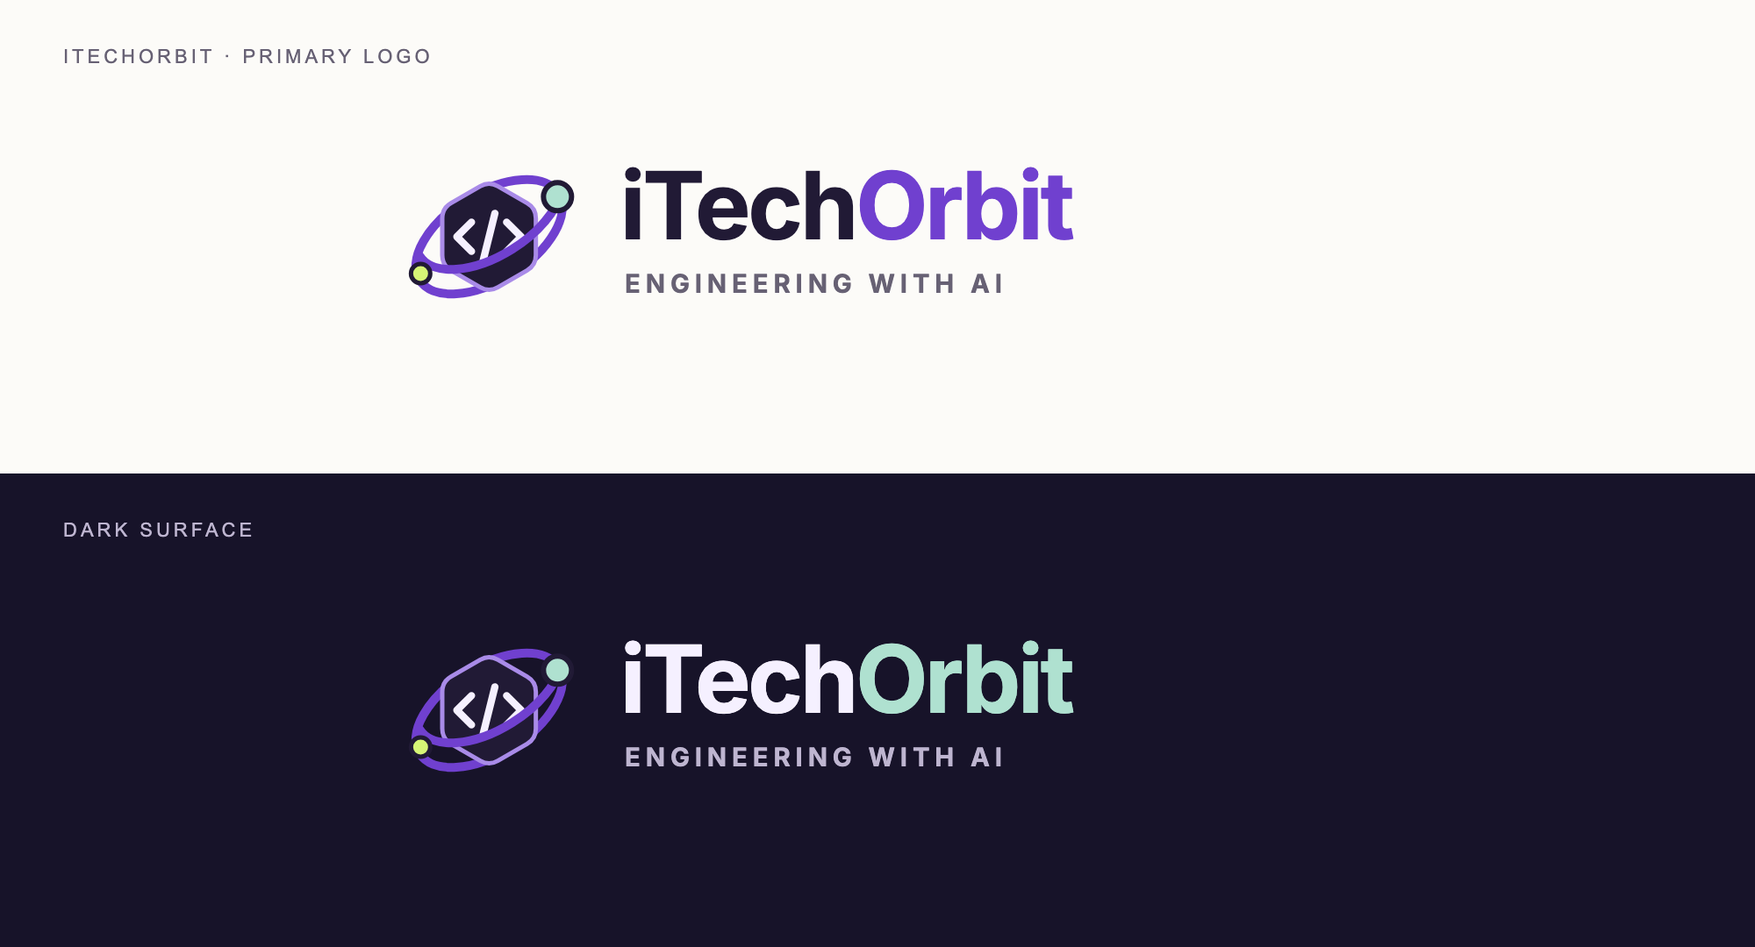
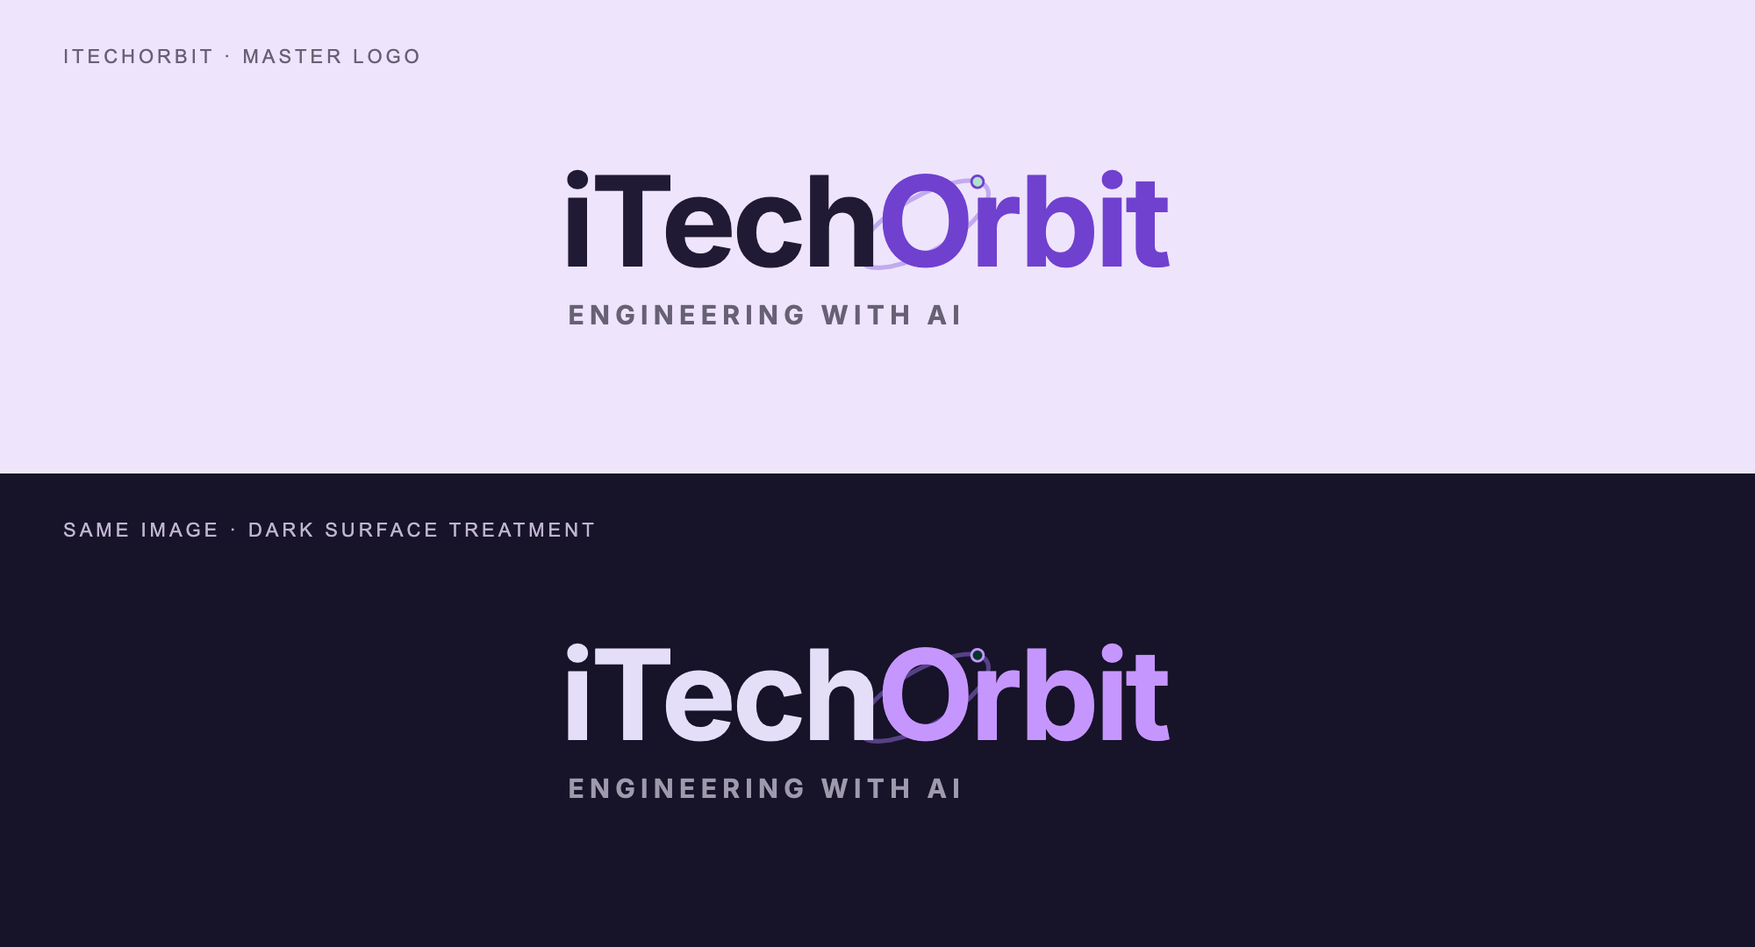
Unify branding with integrated orbital wordmark and Engineering with AI tagline

diff --git a/resources/js/pages/Auth.tsx b/resources/js/pages/Auth.tsx
@@ -1,4 +1,4 @@
-import { BrandSymbol } from '@/components/BrandSymbol';
+import { BrandLogo } from '@/components/BrandLogo';
 import { Head, Link, router, useForm, usePage } from '@inertiajs/react';
 import { ArrowRight, ShieldCheck } from 'lucide-react';
 import { Button } from '@/components/ui/button';
@@ -10,5 +10,5 @@ export default function Auth({ mode, token = '', email = '', googleEnabled = fal
   const titles: Record<Mode, string> = { login: 'Welcome back.', register: 'Create your account.', forgot: 'Reset your password.', reset: 'Choose a new password.', confirm: 'Confirm your password.', verify: 'Check your email.' };
   const paths: Record<Mode, string> = { login: '/login', register: '/register', forgot: '/password/email', reset: '/password/reset', confirm: '/password/confirm', verify: '/email/resend' };
   const fields = [...(mode === 'register' ? ['name'] : []), ...(['login', 'register', 'forgot', 'reset'].includes(mode) ? ['email'] : []), ...(['login', 'register', 'reset', 'confirm'].includes(mode) ? ['password'] : []), ...(['register', 'reset'].includes(mode) ? ['password_confirmation'] : [])] as ('name' | 'email' | 'password' | 'password_confirmation')[];
-  return <div className="min-h-screen bg-slate-50"><Head title={`${titles[mode]} | iTechOrbit`}><meta name="robots" content="noindex,nofollow" /></Head><div className="shell py-8"><Link href="/" className="brand"><BrandSymbol />iTechOrbit</Link></div><main className="mx-auto max-w-md px-6 pb-20 pt-10"><div className="rounded-2xl border border-slate-200 bg-white p-8"><ShieldCheck size={28} className="text-blue-600" /><h1 className="mt-6 text-3xl font-semibold tracking-tight">{titles[mode]}</h1><p className="mt-3 text-sm leading-7 text-slate-600">{mode === 'verify' ? 'Use the verification link we sent to your email address to continue.' : mode === 'forgot' ? 'We’ll send a secure password reset link to your email address.' : 'Your iTechOrbit engineering workspace.'}</p>{flash.status && <p role="status" className="mt-5 rounded-lg bg-blue-50 p-4 text-sm text-blue-800">{flash.status}</p>}<form className="mt-7 grid gap-5" onSubmit={e => { e.preventDefault(); form.post(paths[mode], { onFinish: () => form.reset('password', 'password_confirmation') }); }}>{fields.map(field => <div key={field}><label htmlFor={field} className="form-label">{field === 'password_confirmation' ? 'Confirm password' : field === 'name' ? 'Full name' : field === 'email' ? 'Email address' : 'Password'}</label><Input id={field} type={field.startsWith('password') ? 'password' : field === 'email' ? 'email' : 'text'} required autoComplete={field === 'email' ? 'email' : field === 'name' ? 'name' : mode === 'login' || mode === 'confirm' ? 'current-password' : 'new-password'} value={form.data[field]} onChange={e => form.setData(field, e.target.value)} aria-invalid={!!form.errors[field]} aria-describedby={form.errors[field] ? `${field}-error` : undefined} />{form.errors[field] && <p id={`${field}-error`} className="form-error" role="alert">{form.errors[field]}</p>}</div>)}{mode === 'login' && <div className="flex items-center justify-between text-xs"><label className="flex items-center gap-2"><input type="checkbox" checked={form.data.remember} onChange={e => form.setData('remember', e.target.checked)} className="accent-blue-600" />Remember me</label><Link href="/password/reset" className="text-blue-700">Forgot password?</Link></div>}<Button disabled={form.processing} className="mt-1 w-full">{form.processing ? 'Please wait…' : mode === 'verify' ? 'Resend verification email' : mode === 'forgot' ? 'Send reset link' : mode === 'register' ? 'Create account' : mode === 'login' ? 'Sign in' : 'Continue'}<ArrowRight size={16} /></Button></form>{mode === 'login' && googleEnabled && <Button asChild variant="outline" className="mt-4 w-full"><a href="/login/google">Continue with Google</a></Button>}{mode === 'verify' && <Button variant="ghost" className="mt-3 w-full" onClick={() => router.post('/logout')}>Sign out</Button>}{mode === 'login' && <p className="mt-6 text-center text-xs text-slate-500">New here? <Link href="/register" className="font-medium text-blue-700">Create an account</Link></p>}{['register', 'forgot', 'reset'].includes(mode) && <Link href="/login" className="mt-6 block text-center text-xs font-medium text-blue-700">Back to sign in</Link>}</div><Link href="/" className="mt-7 block text-center text-xs text-slate-500">Back to iTechOrbit</Link></main></div>;
+  return <div className="min-h-screen bg-slate-50"><Head title={`${titles[mode]} | iTechOrbit`}><meta name="robots" content="noindex,nofollow" /></Head><div className="shell py-8"><Link href="/" className="brand"><BrandLogo /></Link></div><main className="mx-auto max-w-md px-6 pb-20 pt-10"><div className="rounded-2xl border border-slate-200 bg-white p-8"><ShieldCheck size={28} className="text-blue-600" /><h1 className="mt-6 text-3xl font-semibold tracking-tight">{titles[mode]}</h1><p className="mt-3 text-sm leading-7 text-slate-600">{mode === 'verify' ? 'Use the verification link we sent to your email address to continue.' : mode === 'forgot' ? 'We’ll send a secure password reset link to your email address.' : 'Your iTechOrbit engineering workspace.'}</p>{flash.status && <p role="status" className="mt-5 rounded-lg bg-blue-50 p-4 text-sm text-blue-800">{flash.status}</p>}<form className="mt-7 grid gap-5" onSubmit={e => { e.preventDefault(); form.post(paths[mode], { onFinish: () => form.reset('password', 'password_confirmation') }); }}>{fields.map(field => <div key={field}><label htmlFor={field} className="form-label">{field === 'password_confirmation' ? 'Confirm password' : field === 'name' ? 'Full name' : field === 'email' ? 'Email address' : 'Password'}</label><Input id={field} type={field.startsWith('password') ? 'password' : field === 'email' ? 'email' : 'text'} required autoComplete={field === 'email' ? 'email' : field === 'name' ? 'name' : mode === 'login' || mode === 'confirm' ? 'current-password' : 'new-password'} value={form.data[field]} onChange={e => form.setData(field, e.target.value)} aria-invalid={!!form.errors[field]} aria-describedby={form.errors[field] ? `${field}-error` : undefined} />{form.errors[field] && <p id={`${field}-error`} className="form-error" role="alert">{form.errors[field]}</p>}</div>)}{mode === 'login' && <div className="flex items-center justify-between text-xs"><label className="flex items-center gap-2"><input type="checkbox" checked={form.data.remember} onChange={e => form.setData('remember', e.target.checked)} className="accent-blue-600" />Remember me</label><Link href="/password/reset" className="text-blue-700">Forgot password?</Link></div>}<Button disabled={form.processing} className="mt-1 w-full">{form.processing ? 'Please wait…' : mode === 'verify' ? 'Resend verification email' : mode === 'forgot' ? 'Send reset link' : mode === 'register' ? 'Create account' : mode === 'login' ? 'Sign in' : 'Continue'}<ArrowRight size={16} /></Button></form>{mode === 'login' && googleEnabled && <Button asChild variant="outline" className="mt-4 w-full"><a href="/login/google">Continue with Google</a></Button>}{mode === 'verify' && <Button variant="ghost" className="mt-3 w-full" onClick={() => router.post('/logout')}>Sign out</Button>}{mode === 'login' && <p className="mt-6 text-center text-xs text-slate-500">New here? <Link href="/register" className="font-medium text-blue-700">Create an account</Link></p>}{['register', 'forgot', 'reset'].includes(mode) && <Link href="/login" className="mt-6 block text-center text-xs font-medium text-blue-700">Back to sign in</Link>}</div><Link href="/" className="mt-7 block text-center text-xs text-slate-500">Back to iTechOrbit</Link></main></div>;
 }

diff --git a/resources/js/layouts/AdminLayout.tsx b/resources/js/layouts/AdminLayout.tsx
@@ -1,4 +1,4 @@
-import { BrandSymbol } from '@/components/BrandSymbol';
+import { BrandLogo } from '@/components/BrandLogo';
 import { Head, Link, router, usePage } from '@inertiajs/react';
 import { ArrowUpRight, LayoutDashboard, LogOut, Menu, X } from 'lucide-react';
 import { useState, type ReactNode } from 'react';
@@ -7,5 +7,5 @@ import type { Shared } from '@/lib/types';
 export type Navigation = { label: string; url: string }[];
 export default function AdminLayout({ children, title, navigation }: { children: ReactNode; title: string; navigation: Navigation }) {
   const { auth } = usePage<Shared>().props; const { url } = usePage(); const [open, setOpen] = useState(false);
-  return <div className="min-h-screen bg-slate-50"><Head title={`${title} | iTechOrbit workspace`}><meta name="robots" content="noindex,nofollow" /></Head><a className="skip-link" href="#main">Skip to content</a><aside className={`${open ? 'flex' : 'hidden'} fixed inset-y-0 left-0 z-40 w-64 flex-col border-r border-slate-200 bg-white lg:flex`}><div className="flex h-20 shrink-0 items-center justify-between border-b border-slate-200 px-6"><Link href="/home" className="brand"><BrandSymbol />iTechOrbit</Link><button className="lg:hidden" aria-label="Close workspace navigation" onClick={() => setOpen(false)}><X size={18} /></button></div><nav aria-label="Workspace navigation" className="flex-1 overflow-y-auto p-4"><Link href="/home" className={`mb-3 flex items-center gap-3 rounded-lg p-3 text-sm font-semibold ${url === '/home' ? 'bg-blue-50 text-blue-700' : 'text-slate-600'}`}><LayoutDashboard size={17} />Overview</Link><p className="mb-3 px-3 text-[10px] font-semibold uppercase tracking-widest text-slate-400">Manage your workspace</p>{navigation.map(item => <Link key={item.url} href={item.url} onClick={() => setOpen(false)} className={`mb-1 block rounded-lg px-3 py-2.5 text-sm ${url.split('?')[0].split('/')[1] === item.url.slice(1) ? 'bg-blue-50 font-semibold text-blue-700' : 'text-slate-600 hover:bg-slate-50'}`} aria-current={url.split('/')[1] === item.url.slice(1) ? 'page' : undefined}>{item.label}</Link>)}<Link href="/permissions" className="mt-3 block rounded-lg px-3 py-2.5 text-sm text-slate-600">Roles & permissions</Link></nav><div className="border-t border-slate-200 p-5"><Link href="/" className="flex items-center gap-2 text-xs font-medium text-slate-600">Visit public website <ArrowUpRight size={14} /></Link></div></aside><div className="lg:pl-64"><header className="flex min-h-20 items-center justify-between gap-5 border-b border-slate-200 bg-white px-6 md:px-10"><div className="flex items-center gap-3"><Button variant="ghost" size="icon" className="lg:hidden" aria-label="Open workspace navigation" aria-expanded={open} onClick={() => setOpen(!open)}><Menu size={20} /></Button><p className="text-xs font-medium text-slate-500">iTechOrbit / Workspace</p></div><div className="flex items-center gap-5"><span className="hidden text-sm text-slate-600 sm:block">{auth.user?.name}</span><Button variant="ghost" size="sm" onClick={() => router.post('/logout')}><LogOut size={16} />Sign out</Button></div></header><main id="main" className="mx-auto max-w-7xl p-6 md:p-10">{children}</main></div></div>;
+  return <div className="min-h-screen bg-slate-50"><Head title={`${title} | iTechOrbit workspace`}><meta name="robots" content="noindex,nofollow" /></Head><a className="skip-link" href="#main">Skip to content</a><aside className={`${open ? 'flex' : 'hidden'} fixed inset-y-0 left-0 z-40 w-64 flex-col border-r border-slate-200 bg-white lg:flex`}><div className="flex h-20 shrink-0 items-center justify-between border-b border-slate-200 px-6"><Link href="/home" className="brand"><BrandLogo /></Link><button className="lg:hidden" aria-label="Close workspace navigation" onClick={() => setOpen(false)}><X size={18} /></button></div><nav aria-label="Workspace navigation" className="flex-1 overflow-y-auto p-4"><Link href="/home" className={`mb-3 flex items-center gap-3 rounded-lg p-3 text-sm font-semibold ${url === '/home' ? 'bg-blue-50 text-blue-700' : 'text-slate-600'}`}><LayoutDashboard size={17} />Overview</Link><p className="mb-3 px-3 text-[10px] font-semibold uppercase tracking-widest text-slate-400">Manage your workspace</p>{navigation.map(item => <Link key={item.url} href={item.url} onClick={() => setOpen(false)} className={`mb-1 block rounded-lg px-3 py-2.5 text-sm ${url.split('?')[0].split('/')[1] === item.url.slice(1) ? 'bg-blue-50 font-semibold text-blue-700' : 'text-slate-600 hover:bg-slate-50'}`} aria-current={url.split('/')[1] === item.url.slice(1) ? 'page' : undefined}>{item.label}</Link>)}<Link href="/permissions" className="mt-3 block rounded-lg px-3 py-2.5 text-sm text-slate-600">Roles & permissions</Link></nav><div className="border-t border-slate-200 p-5"><Link href="/" className="flex items-center gap-2 text-xs font-medium text-slate-600">Visit public website <ArrowUpRight size={14} /></Link></div></aside><div className="lg:pl-64"><header className="flex min-h-20 items-center justify-between gap-5 border-b border-slate-200 bg-white px-6 md:px-10"><div className="flex items-center gap-3"><Button variant="ghost" size="icon" className="lg:hidden" aria-label="Open workspace navigation" aria-expanded={open} onClick={() => setOpen(!open)}><Menu size={20} /></Button><p className="text-xs font-medium text-slate-500">iTechOrbit / Workspace</p></div><div className="flex items-center gap-5"><span className="hidden text-sm text-slate-600 sm:block">{auth.user?.name}</span><Button variant="ghost" size="sm" onClick={() => router.post('/logout')}><LogOut size={16} />Sign out</Button></div></header><main id="main" className="mx-auto max-w-7xl p-6 md:p-10">{children}</main></div></div>;
 }

diff --git a/resources/js/layouts/PublicLayout.tsx b/resources/js/layouts/PublicLayout.tsx
@@ -1,4 +1,4 @@
-import { BrandSymbol } from '@/components/BrandSymbol';
+import { BrandLogo } from '@/components/BrandLogo';
 import { usePage } from '@inertiajs/react';
 import { SiteLink as Link } from '@/components/SiteLink';
 import { ArrowUpRight, Menu, X } from 'lucide-react';
@@ -23,7 +23,7 @@ export default function PublicLayout({ children }: { children: ReactNode }) {
   const { url } = usePage<Shared>();
   return <><a className="skip-link" href="#main">Skip to content</a>
     <header className={`site-header ${scrolled ? 'is-scrolled' : ''}`}><div className="shell header-inner">
-      <Link href="/" className="brand" aria-label="iTechOrbit home"><BrandSymbol /><span className="header-brand-copy"><span>iTech<span className="text-blue-600">Orbit</span></span><small>ENGINEERING &amp; AI</small></span></Link>
+      <Link href="/" className="brand" aria-label="iTechOrbit home"><BrandLogo /></Link>
       <nav className="header-navigation hidden items-center gap-1 lg:flex" aria-label="Main navigation">{navigation.map(([label, path]) => <Link key={path} href={path} className={`nav-link ${path === '/services/ai-workflow-integration' ? 'nav-ai' : ''}`} aria-current={(path === '/' ? url === '/' : url.startsWith(path)) ? 'page' : undefined}>{label}</Link>)}</nav>
       <div className="header-actions"><Button asChild className="header-project-cta hidden xl:inline-flex"><Link href="/contact/info">Let’s talk <ArrowUpRight size={16} /></Link></Button><HeaderAccount />
       <details className="mobile-menu lg:hidden">
@@ -33,7 +33,7 @@ export default function PublicLayout({ children }: { children: ReactNode }) {
     </div></div></header>
     <main id="main">{children}</main>
     <footer className="site-footer"><div className="shell grid gap-10 py-14 md:grid-cols-[2fr_1fr_1fr]">
-      <div><Link href="/" className="brand"><BrandSymbol />iTechOrbit</Link><p className="mt-4 footer-copy max-w-sm text-sm leading-7">Thoughtful software engineering.<br />Built for your business. Ready for what’s next.</p></div>
+      <div><Link href="/" className="brand"><BrandLogo dark /></Link><p className="mt-4 footer-copy max-w-sm text-sm leading-7">Thoughtful software engineering.<br />Built for your business. Ready for what’s next.</p></div>
       <div><p className="mb-4 text-sm font-semibold">Explore</p><nav aria-label="Footer navigation" className="footer-links grid gap-3 text-sm">{navigation.map(([label, path]) => <Link key={path} href={path}>{label}</Link>)}</nav></div>
       <div><p className="mb-4 text-sm font-semibold">Start a conversation</p><div className="footer-links grid gap-3 text-sm"><Link href="/contact/info">Project inquiries <ArrowUpRight className="inline" size={14} /></Link><Link href="/contact/info?subject=Engineering%20opportunity">Engineering opportunities</Link><Link href="/privacy-n-policy">Privacy policy</Link><Link href="/login">Workspace sign in</Link></div></div>
     </div><div className="footer-bottom shell flex flex-wrap justify-between gap-3 py-6 text-xs"><span>© {new Date().getUTCFullYear()} iTechOrbit. All rights reserved.</span><span>Clarity in code. Confidence in delivery.</span></div></footer>

diff --git a/resources/css/app.css b/resources/css/app.css
@@ -307,9 +307,11 @@
 .header-brand-copy > span { line-height: 1; }
 .header-brand-copy small { font-size: .5625rem; font-weight: 600; letter-spacing: .13em; color: #676174; }
 .site-header .brand-mark { background: linear-gradient(145deg, #7040cf, #34244f); border: 1px solid #ffffff45; }
-.brand-logo { width: 2.75rem; height: 2.75rem; flex-shrink: 0; object-fit: contain; }
-.site-footer .brand-logo { width: 2.5rem; height: 2.5rem; }
-@media (max-width: 380px) { .site-header .brand-logo { width: 2.25rem; height: 2.25rem; } }
+.brand-logo { display: block; width: 12.5rem; height: auto; flex-shrink: 0; }
+.brand-logo-on-dark { filter: invert(1) hue-rotate(180deg); }
+.site-footer .brand-logo { width: 12.5rem; }
+@media (max-width: 639px) { .site-header .brand-logo { width: 10.5rem; } }
+@media (max-width: 380px) { .site-header .brand-logo { width: 9.25rem; } }
 .header-navigation { padding: 0; gap: 1.35rem; }
 .header-navigation .nav-link { position: relative; padding: .75rem 0; border-radius: 0; background: transparent; color: #62596f; font-size: .8125rem; font-weight: 500; white-space: nowrap; box-shadow: none; }
 .header-navigation .nav-link::after { content: ''; position: absolute; bottom: .25rem; left: 0; right: 0; height: 2px; border-radius: 2px; background: #7040cf; transform: scaleX(0); transform-origin: left; transition: transform 180ms ease; }

diff --git a/tests/browser/website.spec.ts b/tests/browser/website.spec.ts
@@ -7,6 +7,7 @@ test('public pages render crawlable HTML and responsive navigation', async ({ pa
   await page.evaluate(() => document.fonts.ready);
   expect(await page.evaluate(() => document.fonts.check('600 16px Inter'))).toBeTruthy();
   await page.screenshot({ path: testInfo.outputPath('homepage.png'), fullPage: true });
+  await page.locator('.site-header').screenshot({ path: testInfo.outputPath('header.png') });
   const panel = await page.locator('.studio-window').boundingBox();
   const viewportWidth = await page.evaluate(() => window.innerWidth);
   expect(panel?.x).toBeGreaterThanOrEqual(0);

diff --git a/resources/js/components/BrandLogo.tsx b/resources/js/components/BrandLogo.tsx
@@ -1,0 +1,3 @@
+export function BrandLogo({ dark = false }: { dark?: boolean }) {
+  return <img src="/brand/itechorbit-logo.svg" alt="iTechOrbit — Engineering with AI" width={300} height={84} className={`brand-logo${dark ? ' brand-logo-on-dark' : ''}`} />;
+}

diff --git a/resources/views/layouts/app.blade.php b/resources/views/layouts/app.blade.php
@@ -8,6 +8,8 @@
     <meta name="csrf-token" content="{{ csrf_token() }}">
 
     <title>{{ config('app.name', 'Laravel') }}</title>
+    <link rel="icon" href="{{ asset('favicon.svg') }}" type="image/svg+xml">
+    <link rel="apple-touch-icon" href="/apple-touch-icon.png">
 
     <!-- Scripts -->
     <script src="{{ asset('js/app.js') }}" defer></script>
@@ -24,7 +26,7 @@
         <nav class="navbar navbar-expand-md navbar-light bg-white shadow-sm">
             <div class="container">
                 <a class="navbar-brand" href="{{ url('/') }}">
-                    {{ config('app.name', 'Laravel') }}
+                    <x-brand-logo />
                 </a>
                 <button class="navbar-toggler" type="button" data-bs-toggle="collapse" data-bs-target="#navbarSupportedContent" aria-controls="navbarSupportedContent" aria-expanded="false" aria-label="{{ __('Toggle navigation') }}">
                     <span class="navbar-toggler-icon"></span>

diff --git a/resources/views/blog/includes/header_library.blade.php b/resources/views/blog/includes/header_library.blade.php
@@ -19,8 +19,8 @@
     </script>
     <meta name="csrf-token" content="{{ csrf_token() }}"/>
     <!-- Favicons -->
-    <link href="{{ asset('blog/img/favicon_io/apple-touch-icon.png') }}" rel="icon">
-    <link href="{{ asset('blog/img/apple-touch-icon.png') }}" rel="apple-touch-icon">
+    <link href="{{ asset('favicon.svg') }}" rel="icon" type="image/svg+xml">
+    <link href="{{ asset('apple-touch-icon.png') }}" rel="apple-touch-icon">
 
     <!-- Google Fonts -->
     <link href="https://fonts.googleapis.com/css?family=Open+Sans:300,300i,400,400i,600,600i,700,700i|Nunito:300,300i,400,400i,600,600i,700,700i|Poppins:300,300i,400,400i,500,500i,600,600i,700,700i" rel="stylesheet">

diff --git a/resources/views/portfolio/includes/header_library.blade.php b/resources/views/portfolio/includes/header_library.blade.php
@@ -8,8 +8,8 @@
     <meta content="" name="keywords">
 
     <!-- Favicons -->
-    <link href="{{ asset('portfolio/img/favicon_io/apple-touch-icon.png') }}" rel="icon">
-    <link href="{{ asset('portfolio/img/apple-touch-icon.png') }}" rel="apple-touch-icon">
+    <link href="{{ asset('favicon.svg') }}" rel="icon" type="image/svg+xml">
+    <link href="{{ asset('apple-touch-icon.png') }}" rel="apple-touch-icon">
 
     <!-- Google Fonts -->
     <link href="https://fonts.googleapis.com/css?family=Open+Sans:300,300i,400,400i,600,600i,700,700i|Nunito:300,300i,400,400i,600,600i,700,700i|Poppins:300,300i,400,400i,500,500i,600,600i,700,700i" rel="stylesheet">

diff --git a/resources/views/blog/includes/footer.blade.php b/resources/views/blog/includes/footer.blade.php
@@ -4,8 +4,7 @@
             <div class="row gy-4">
                 <div class="col-lg-5 col-md-12 footer-info">
                     <a href="{{ url('/') }}" class="logo d-flex align-items-center">
-                        <span class="p-2"><i class="fas fa-code"></i></span>
-                        <span class="">{{ config('app.name', 'itechorbit') }}</span>
+                        <x-brand-logo />
                     </a>
                     <p>This blog is for sharing programming skills and knowledge.</p>
                     <p class="text-success">Thank you for being here <i class="fa-solid fa-face-smile"></i>.</p>

diff --git a/resources/views/admin/mail_templates/mail.blade.php b/resources/views/admin/mail_templates/mail.blade.php
@@ -5,7 +5,7 @@
 </head>
 <div style="background: #ffffff;  box-shadow: 0 3px 10px rgb(0 0 0 / 0.2);border-radius: 15px;">
     <h2 style="text-align: center;padding: 15px;margin-top: 0;color: darkblue">
-        <a href="{{ url('/') }}" style="text-decoration: none;" target="_blank">{{ config('app.name', 'itechorbit') }}</a>
+        <a href="{{ url('/') }}" style="text-decoration: none;" target="_blank"><img src="{{ asset('brand/itechorbit-logo.png') }}" alt="iTechOrbit" width="240" height="67" style="max-width:100%;height:auto;"></a>
     </h2>
     <div style="padding-left: 15px">
         <h4>Hello {{ $name }},</h4>

diff --git a/resources/views/portfolio/includes/footer.blade.php b/resources/views/portfolio/includes/footer.blade.php
@@ -6,7 +6,7 @@
                 <div class="col-lg-12 col-md-12 footer-info text-center">
                     <div href="index.html" class="logo align-items-center">
                         @if($user->id===1)
-                            <span class="p-1"><i class="fa-brands fa-dev"></i></span>
+                            <x-brand-logo :width="200" />
                         @endif
                         <span class="text-capitalize">{{ $user->name }}</span>
                     </div>
